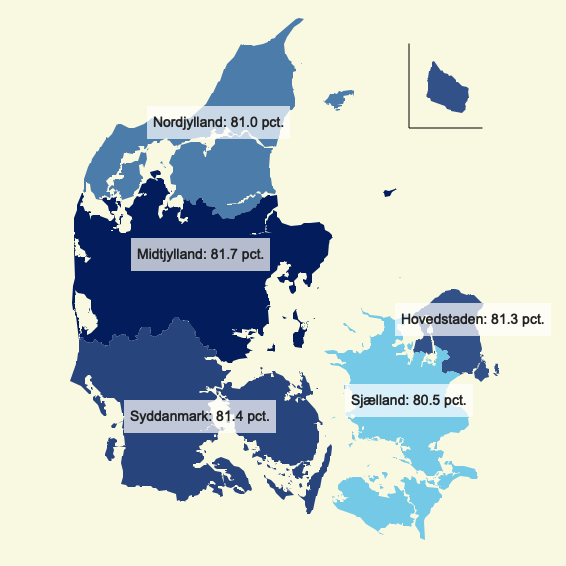
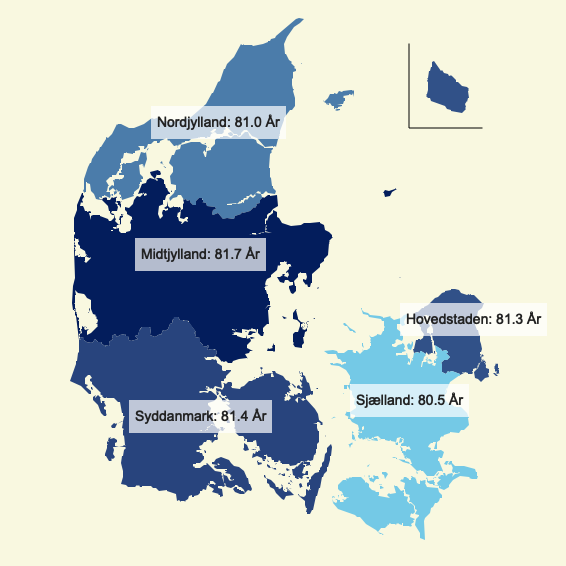
Changed readme

diff --git a/README.md b/README.md
@@ -91,15 +91,12 @@ fmrarkort(data = rardata, id = "omraade", value = "value", suffix = "pct.")
 
 ### Regionskort
 
-Funktionen `fmrarkort` laver et danmarkskort hvor de regionale
-arbejdsmarkedsråd (RAR) fyldes ud med en farve med en tilsvarende værdi.
-Dette kan fx være den forgæves rekretteringsrate Funktionen kan lave
-markers/labels som angiver værdien for RAR-området. Derudover har
-funktionen de samme funktionaliteter som `fmkommunekort`
+Funktionen `fmregionkort` har samme funktionaliteter som `fmrarkort`
+blot for en anden geografisk inddeling.
 
 ``` r
 load("man/examples/middellevetid.rda")
-fmregionkort(data = middellevetid, id = "Region", value = "value", suffix = "pct.")
+fmregionkort(data = middellevetid, id = "Region", value = "value", suffix = "År")
 ```
 
 ![](man/examples/README-fig4-1.png)<!-- -->
